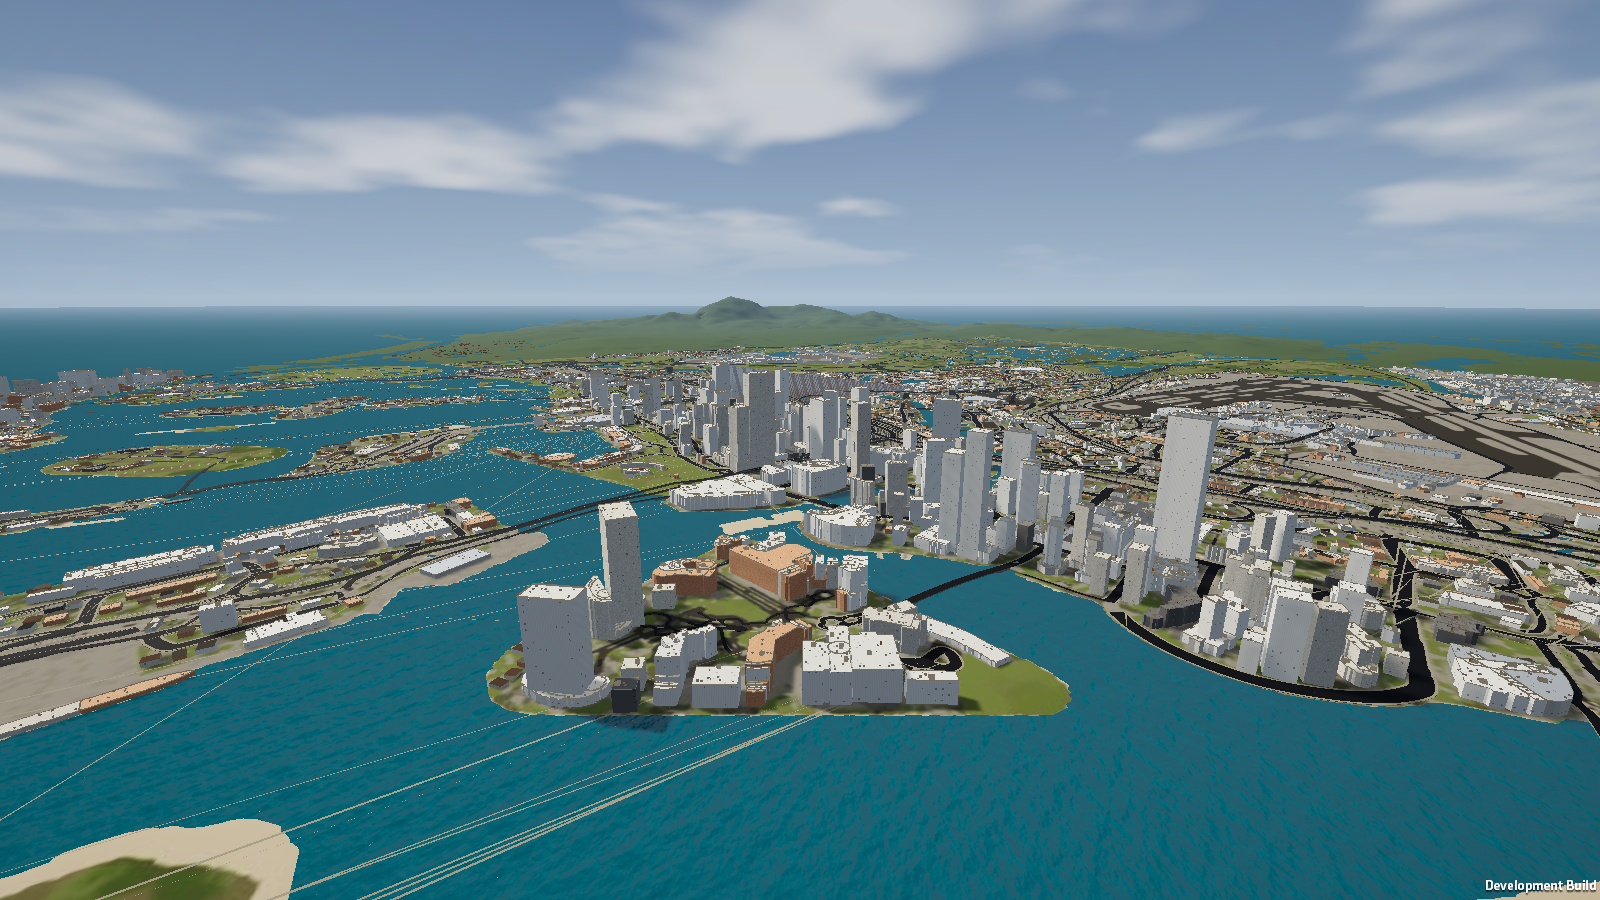
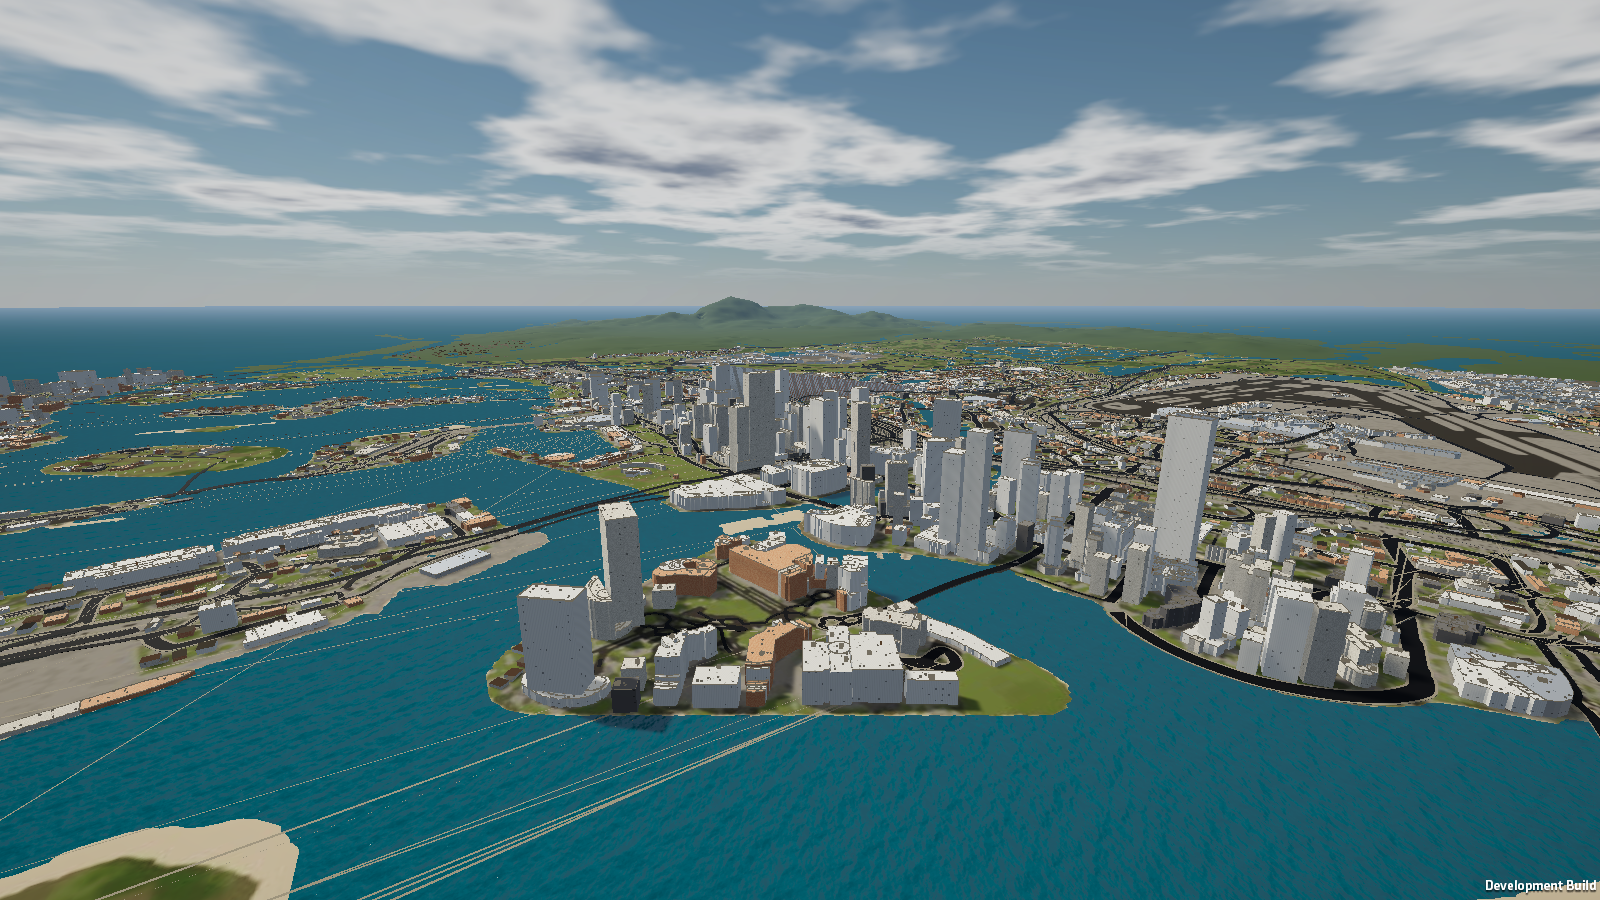
Unity: port Sky.js Preetham atmosphere + SKY_CLOUDS exactly

Changed region(s): [[0.0, 0.0, 1.0, 0.3422]]

diff --git a/unity/Assets/Leonida/Runtime/LeonidaEnvironment.cs b/unity/Assets/Leonida/Runtime/LeonidaEnvironment.cs
@@ -33,6 +33,16 @@ namespace Leonida
                 // A directional light points along the rays; the visible sun is opposite.
                 sky.SetVector("_SunDir", -sun.transform.forward);
             }
+            sky.SetFloat("_Turbidity", 3.2f);
+            sky.SetFloat("_Rayleigh", 1.4f);
+            sky.SetFloat("_MieCoefficient", 0.004f);
+            sky.SetFloat("_MieDirectionalG", 0.8f);
+            sky.SetVector("_Up", Vector3.up);
+            sky.SetFloat("_Gain", 0.22f);
+            sky.SetColor("_CloudLit", new Color(1.0f, 1.0f, 1.0f, 1f));
+            sky.SetColor("_CloudShade", new Color(0.46f, 0.51f, 0.60f, 1f));
+            sky.SetColor("_CloudGlow", Color.black);
+            sky.SetFloat("_Warm", 0f);
             DynamicGI.UpdateEnvironment();
         }
     }

diff --git a/unity/Assets/Leonida/Runtime/LeonidaBootstrap.cs b/unity/Assets/Leonida/Runtime/LeonidaBootstrap.cs
@@ -196,7 +196,7 @@ namespace Leonida
             var color = profile.Add<ColorAdjustments>(true);
             color.contrast.Override(10f);
             color.saturation.Override(6f);
-            color.postExposure.Override(0.15f);
+            color.postExposure.Override(0f);
 
             var bloom = profile.Add<Bloom>(true);
             bloom.intensity.Override(0.15f);
